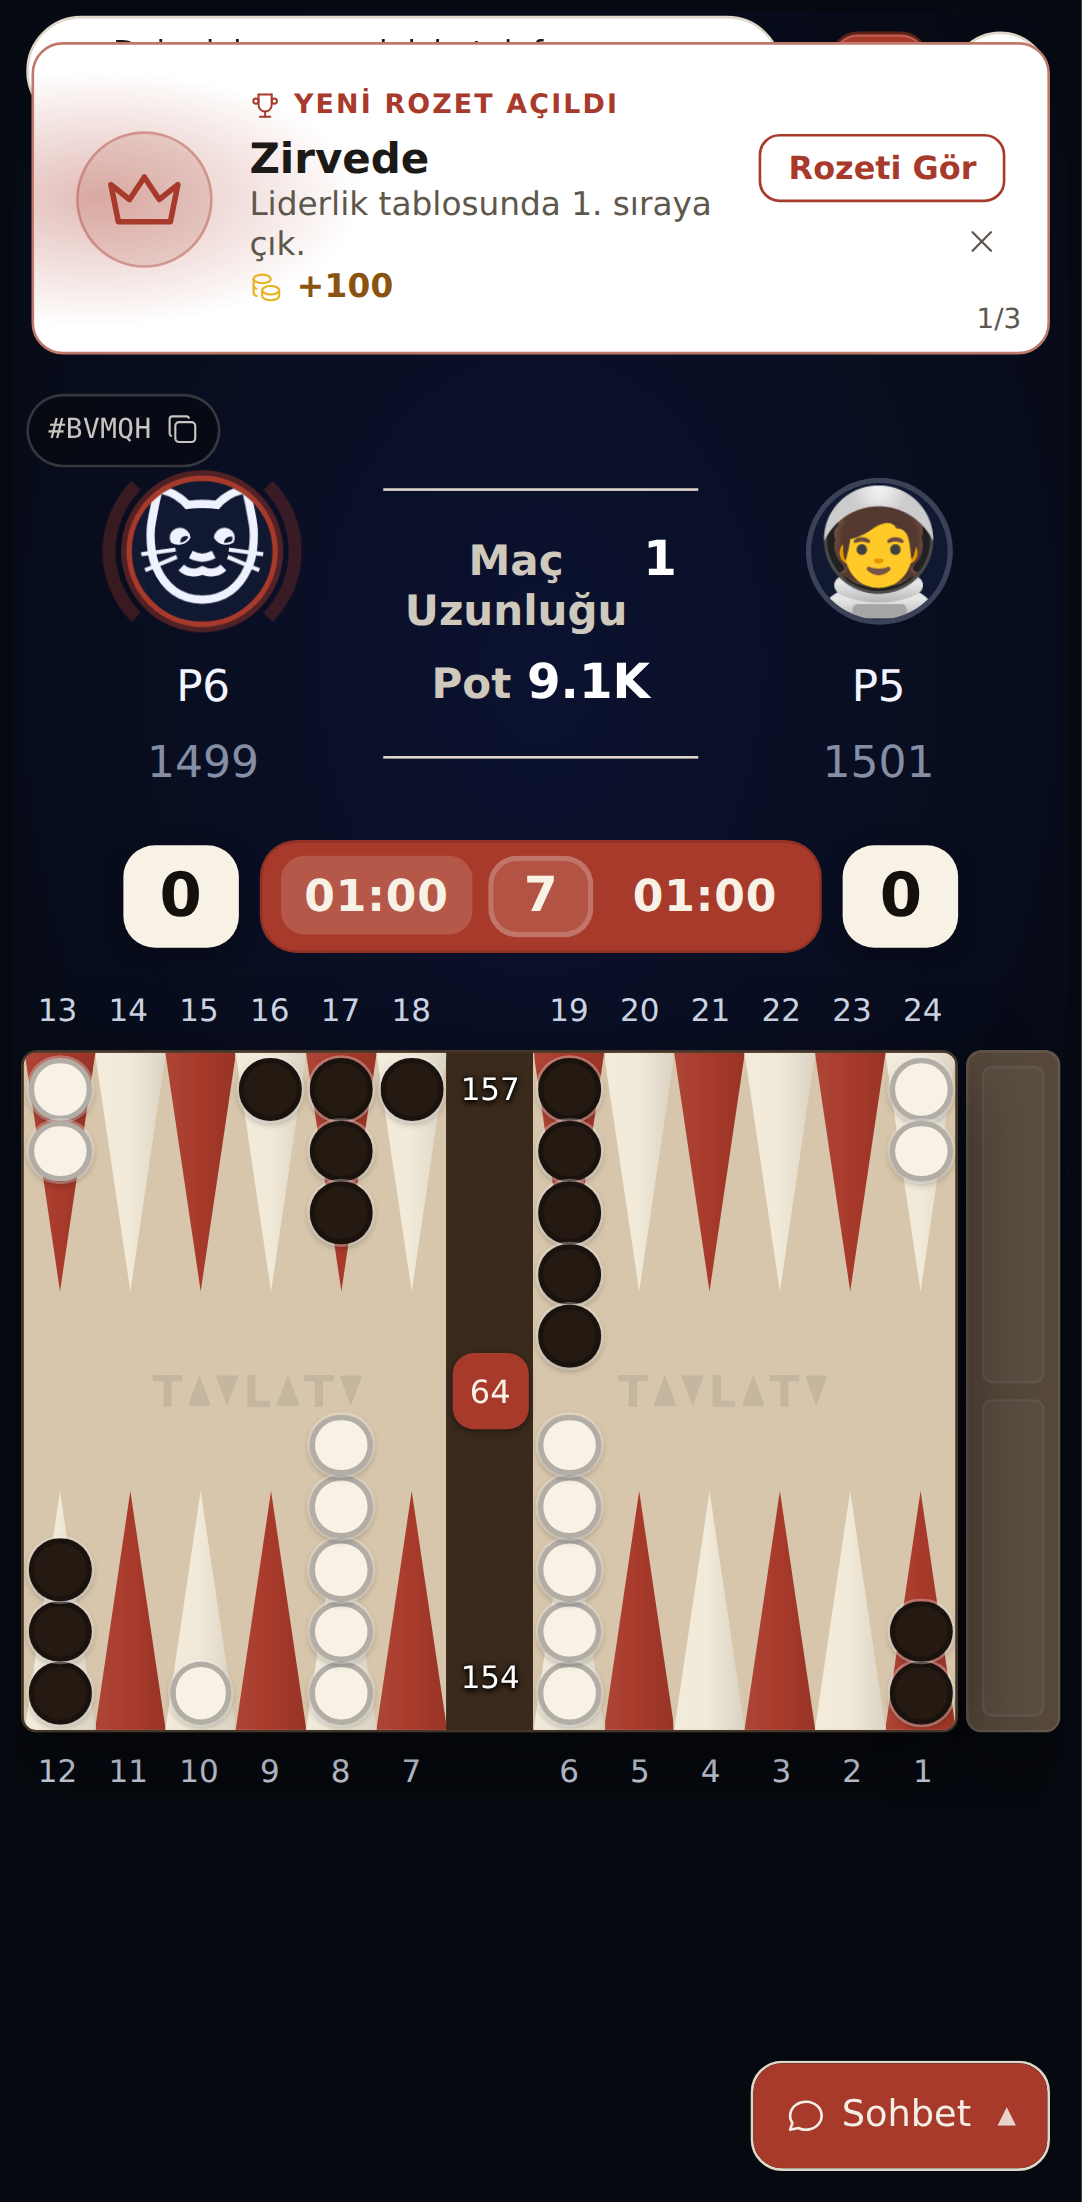
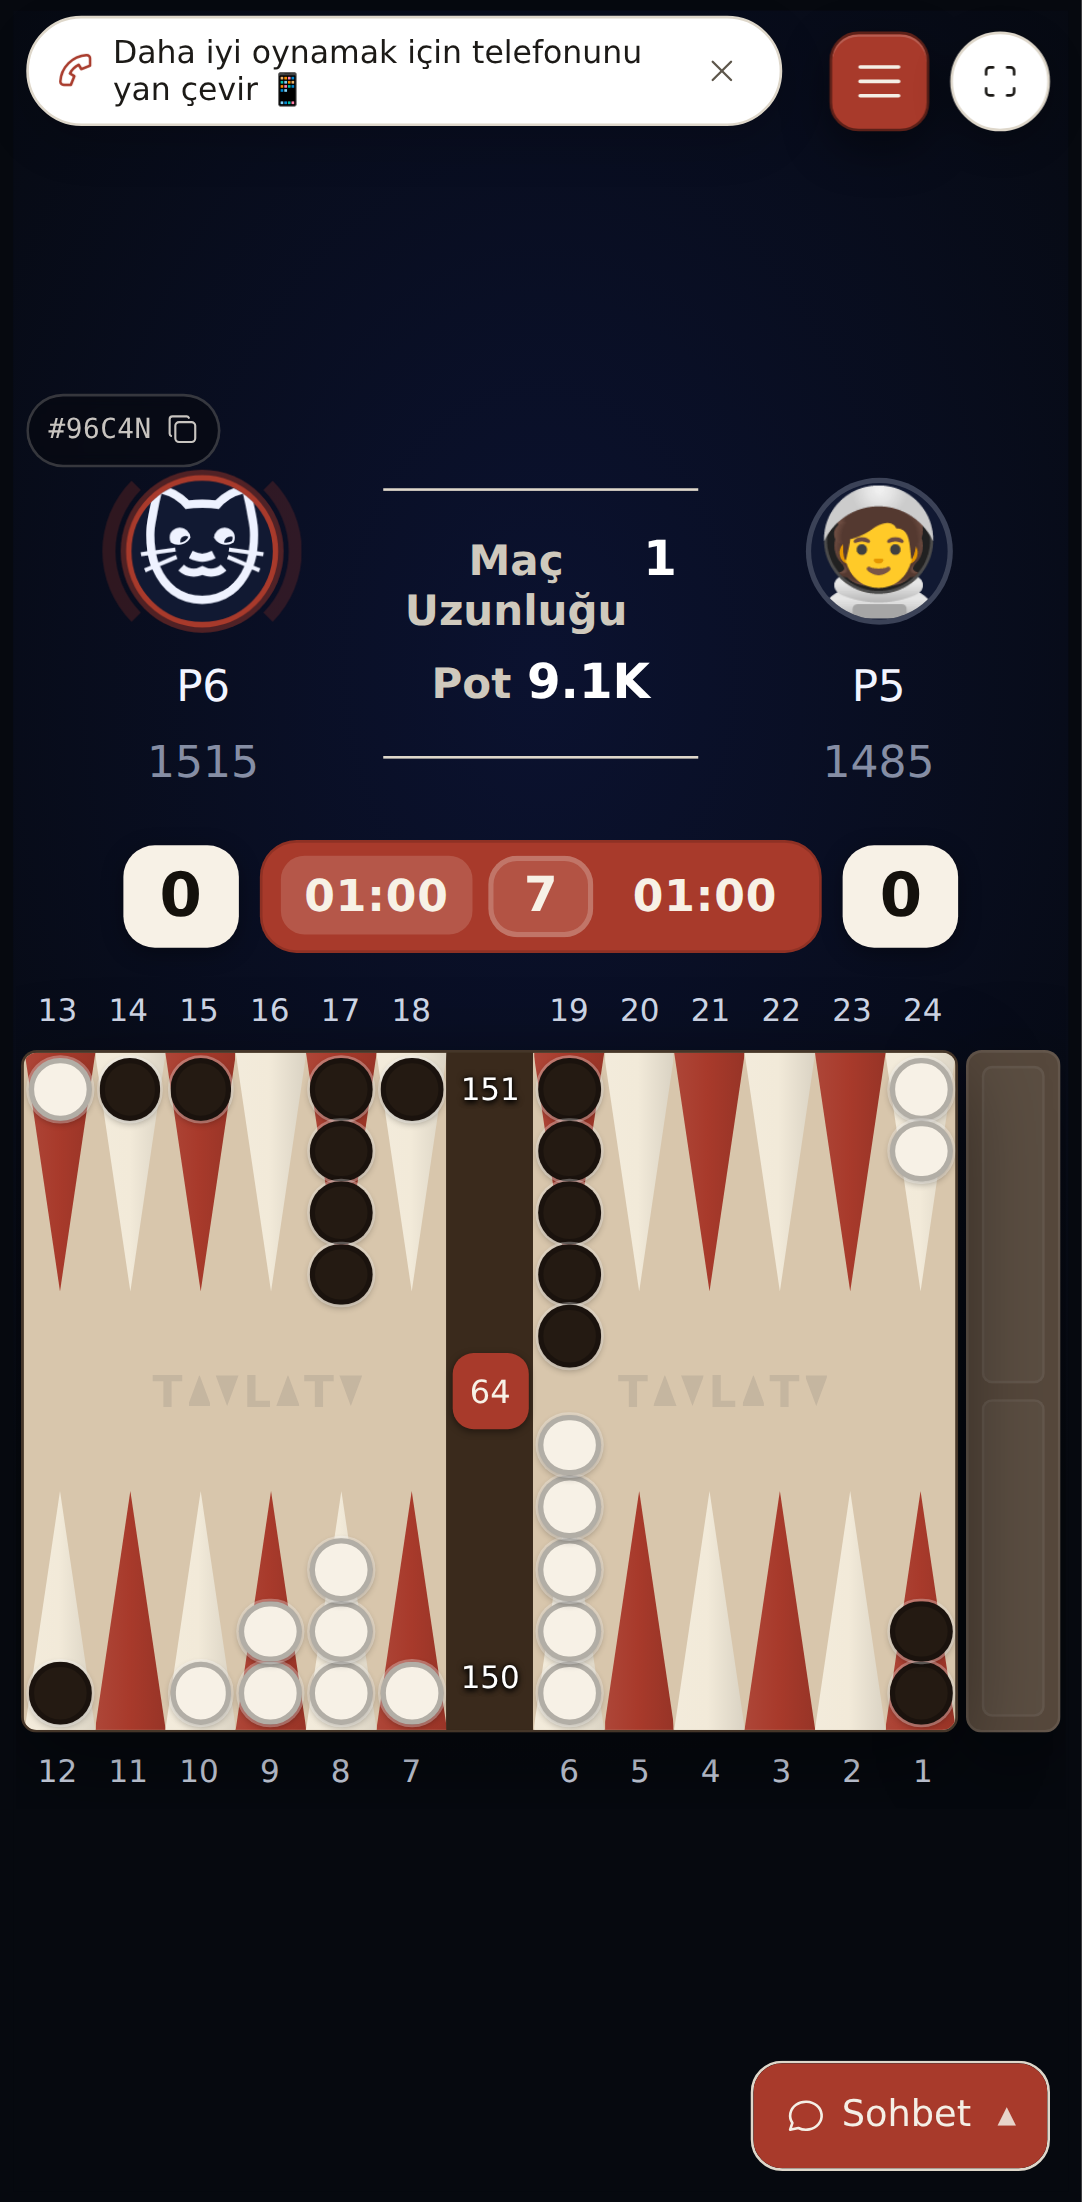
Mobil oyun içi merkez düğmeleri 44px dokunma hedefi; rapor: puan raporu süresi iddiası ölçümle düzeltildi
- App.css: dikey mobilde Zar At/Katla/Onayla 40px -> 44px; yatay telefonda görünüş 34px, dokunma alanı ::after ile 44px
- browser.spec: Onayla >= 44px beklentisi (ölçülen 104x44)
- Rapor: rating/report ölçüldü 0,04-0,06 sn; önceki 20-35 sn iddiası testin 429 beklemesiydi

Claude-Session: https://claude.ai/code/session_016RDEfgRNrYB5PHLDdZ1HuN

diff --git a/src/App.css b/src/App.css
@@ -7493,11 +7493,12 @@ html[data-board='yilbasi'] .checker.black {
   width: 18px !important;
   height: 18px !important;
 }
-/* Mobil: oyun-ici merkez butonlari (Zar At / Katla / Onayla) kucult -> board'dan rol calmasin. */
+/* Mobil: oyun-ici merkez butonlari (Zar At / Katla / Onayla) kucult -> board'dan rol calmasin.
+   Yukseklik 44px: dokunma hedefi alt siniri (Apple HIG / WCAG 2.5.5); 40px'te Onayla iska oluyordu. */
 @media (max-width: 900px) {
   .center-overlay [data-slot='button'] {
-    height: 40px;
-    min-height: 40px;
+    height: 44px;
+    min-height: 44px;
     padding: 0 16px;
     font-size: 0.94rem;
   }
@@ -7509,10 +7510,17 @@ html[data-board='yilbasi'] .checker.black {
 /* Yatay telefon (kisa): iyice kompakt. */
 @media (max-height: 560px) and (orientation: landscape) {
   .center-overlay [data-slot='button'] {
+    position: relative;
     height: 34px;
     min-height: 34px;
     padding: 0 13px;
     font-size: 0.85rem;
+  }
+  /* Gorunus kompakt (34px) kalir; DOKUNMA alani gorunmez sekilde 44px'e genisletilir. */
+  .center-overlay [data-slot='button']::after {
+    content: '';
+    position: absolute;
+    inset: -5px -4px;
   }
 }
 /* Merkez HUD modali (#11): kompakt, premium game-HUD; dev popup DEGIL */

diff --git a/e2e/flows/browser.spec.ts b/e2e/flows/browser.spec.ts
@@ -182,6 +182,7 @@ test('mobil (Pixel 7): UI ile zar at, taş oyna, onayla; tahta taşmıyor; maç 
     if (await confirm.isVisible().catch(() => false)) {
       const cb = await confirm.boundingBox()
       ui.push(`onay düğmesi ${Math.round(cb!.width)}x${Math.round(cb!.height)}`)
+      expect(Math.round(cb!.height), 'Onayla dokunma hedefi ≥44px').toBeGreaterThanOrEqual(44)
       await confirm.tap()
     }
     await expect.poll(async () => (await getRoom(req, s.code, s.white)).server_version, { timeout: 20_000, message: 'UI hamlesi sunucuya ulaşmalı' }).toBeGreaterThan(v0)

diff --git a/TAVLATV_OYUN_AKIS_TEST_RAPORU.md b/TAVLATV_OYUN_AKIS_TEST_RAPORU.md
@@ -133,7 +133,7 @@ Hamle başka sekmeden/cihazdan geldiğinde ya da `/move` yanıtı kaybolduğunda
 - **Final açılış gecikmesi:** Üçüncülük maçı bitince final 1 dk sonra açılır (`opens_at`).
 - **Otomatik zar:** Mobil/masaüstü istemci, sırası gelince zarı düğmesiz kendiliğinden atabiliyor (UI zarları gösteriyor).
 - **Bahis komisyonu:** Kazanan stake×puan×0,95 alır; kaybeden stake×puan öder. `settle` tekrarında ikinci ödeme yok.
-- **Performans notu:** `POST /rating/report` maç sonu PR'ını istek içinde senkron hesaplıyor (kod yorumu "validator PR max ~20s"); testte bu istekler 20–35 sn sürdü. İşlevsel hata değil ama istemcinin bekleme süresini uzatıyor. İleride kuyruk işine taşınması önerilir (yapılmadı: mimari değişiklik).
+- **Puan raporu süresi (DÜZELTME — ilk sürümdeki iddia yanlıştı):** İlk raporda `POST /rating/report`'un 20–35 sn sürdüğü yazılmıştı. Ölçüm bunu doğrulamadı: bitmiş maç için rapor **0,04–0,06 sn**. O testteki gecikme, testin aynı IP'den yoğun istek sonrası hız sınırına (429) takılıp beklemesinden kaynaklanıyordu. Senkron validator PR dalı yalnız `VALIDATOR_PR_MODE != off` **ve** `GNUBG_PR_MODE != authoritative` iken + istemci `log` gönderdiğinde çalışır; önerilen canlı ayar (`GNUBG_PR_MODE=authoritative`) ile bu dal hiç çalışmaz, PR `AnalyzeMatchPrJob` ile arka planda hesaplanır. Canlı sunucunun gerçek `.env` değerleri bu ortamdan doğrulanamadı.
 - **Hız sınırı:** Oda komutları 240/dk. API testleri gerçek oyuncudan hızlı olduğu için 429 alıp bekledi (ürün davranışı doğru).
 
 ## 7. Değiştirilen dosyalar
@@ -197,5 +197,14 @@ Not: Testlerin bir kısmı ilk denemede **test tarafı** nedenlerle başarısız
 - **Keşfedilen oyun türleri:** YZ (seviye 1–12), rastgele eşleşme (Tek Oyun, Maç, bahisli), arkadaş odası, davet, turnuva (eleme; Swiss kod tabanında), Kız Tavlası (bilgisayara karşı), yerel (aynı cihaz), rövanş/izleme.
 - **Tamamlanan oyun döngüleri:** her çevrimiçi türde ≥5 maç — toplam **50 sunucu maçı** (eşleşme 10, bahisli 5, arkadaş 5, davet 5, YZ 12, turnuva 8, rövanş 2, .mat 1, tarayıcı 2) + **9 Kız Tavlası oyunu**; tümünde taş sayısı, iki istemci durumu ve puanlar bağımsız olarak doğrulandı, **anomali 0**.
 - **Bulunan ürün hatası:** 5 (Yüksek 1, Orta 1, Orta/Düşük 1, Düşük 2) — **hepsi düzeltildi** ve regresyon testleri eklendi. Ayrıca bu oturumun önceki işinde 1 Yüksek senkron hatası düzeltilmişti (yeniden doğrulandı).
-- **Kalan kritik sorun:** doğrulanmış kritik sorun **yok**. Açık riskler: gerçek cihaz/PWA ve WebSocket yolu test edilemedi; `rating/report` senkron PR hesabı 20–35 sn sürebiliyor (performans).
-- **Yayın:** Değişiklikler yalnız `claude/cloud-session-credits-9nd4yl` dalında; canlıya alınmadı.
+- **Kalan kritik sorun:** doğrulanmış kritik sorun **yok**. Açık riskler: gerçek cihaz/PWA ve WebSocket yolu test edilemedi.
+- **Yayın:** H-1…H-5 düzeltmeleri `main`'e gönderildi (`73aea44`); canlıya çıkması için Plesk Pull + deploy.sh gerekir.
+
+## 11. Ek düzeltme (rapor sonrası)
+
+### H-6 — Düşük: Mobilde oyun içi merkez düğmeleri (Zar At / Katla / Onayla) 40 px idi
+- **Gerçekleşen:** Pixel 7 emülasyonunda "Onayla" 104×40 px ölçüldü (önerilen dokunma hedefi ≥44 px); yatay telefonda 34 px.
+- **Kök neden:** `src/App.css` `@media (max-width: 900px) .center-overlay [data-slot='button'] { height: 40px }` (tahtadan yer çalmamak için bilinçli küçültme).
+- **Düzeltme:** Dikey mobilde 44 px. Yatay telefonda görünüş 34 px kaldı (yer çok kısıtlı), dokunma alanı görünmez `::after` ile 44 px'e genişletildi.
+- **Doğrulama:** Mobil tarayıcı testi yeniden koşuldu: "Onayla" **104×44 px**, yatay taşma 0, test ✅. Teste ≥44 px beklentisi eklendi. Yatay telefondaki genişletilmiş dokunma alanı yalnız CSS ile yapıldı; tarayıcıda ayrıca ölçülmedi.
+- **Puan raporu performansı** maddesi incelendi: ölçümle hata olmadığı görüldü (§6), kod değişikliği yapılmadı.
